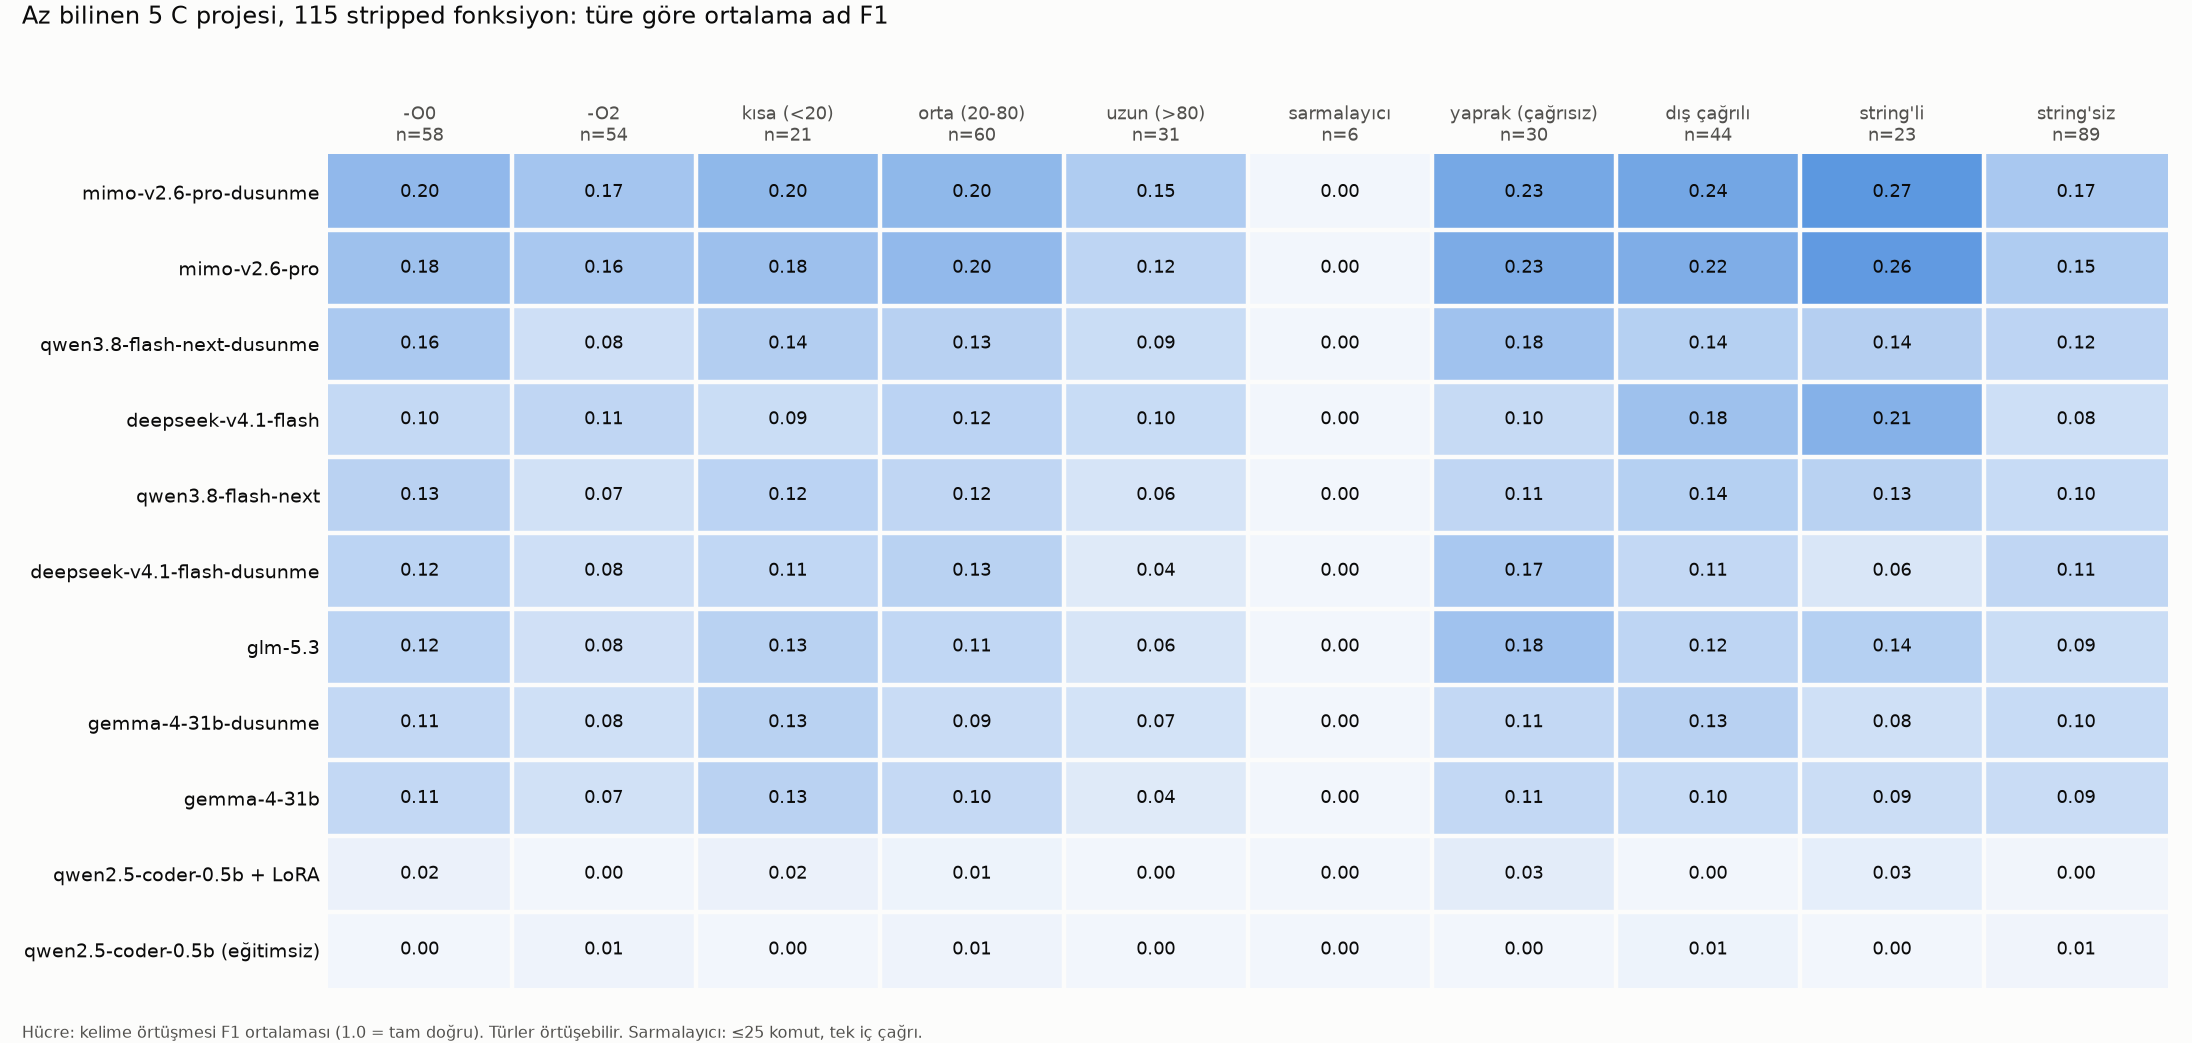
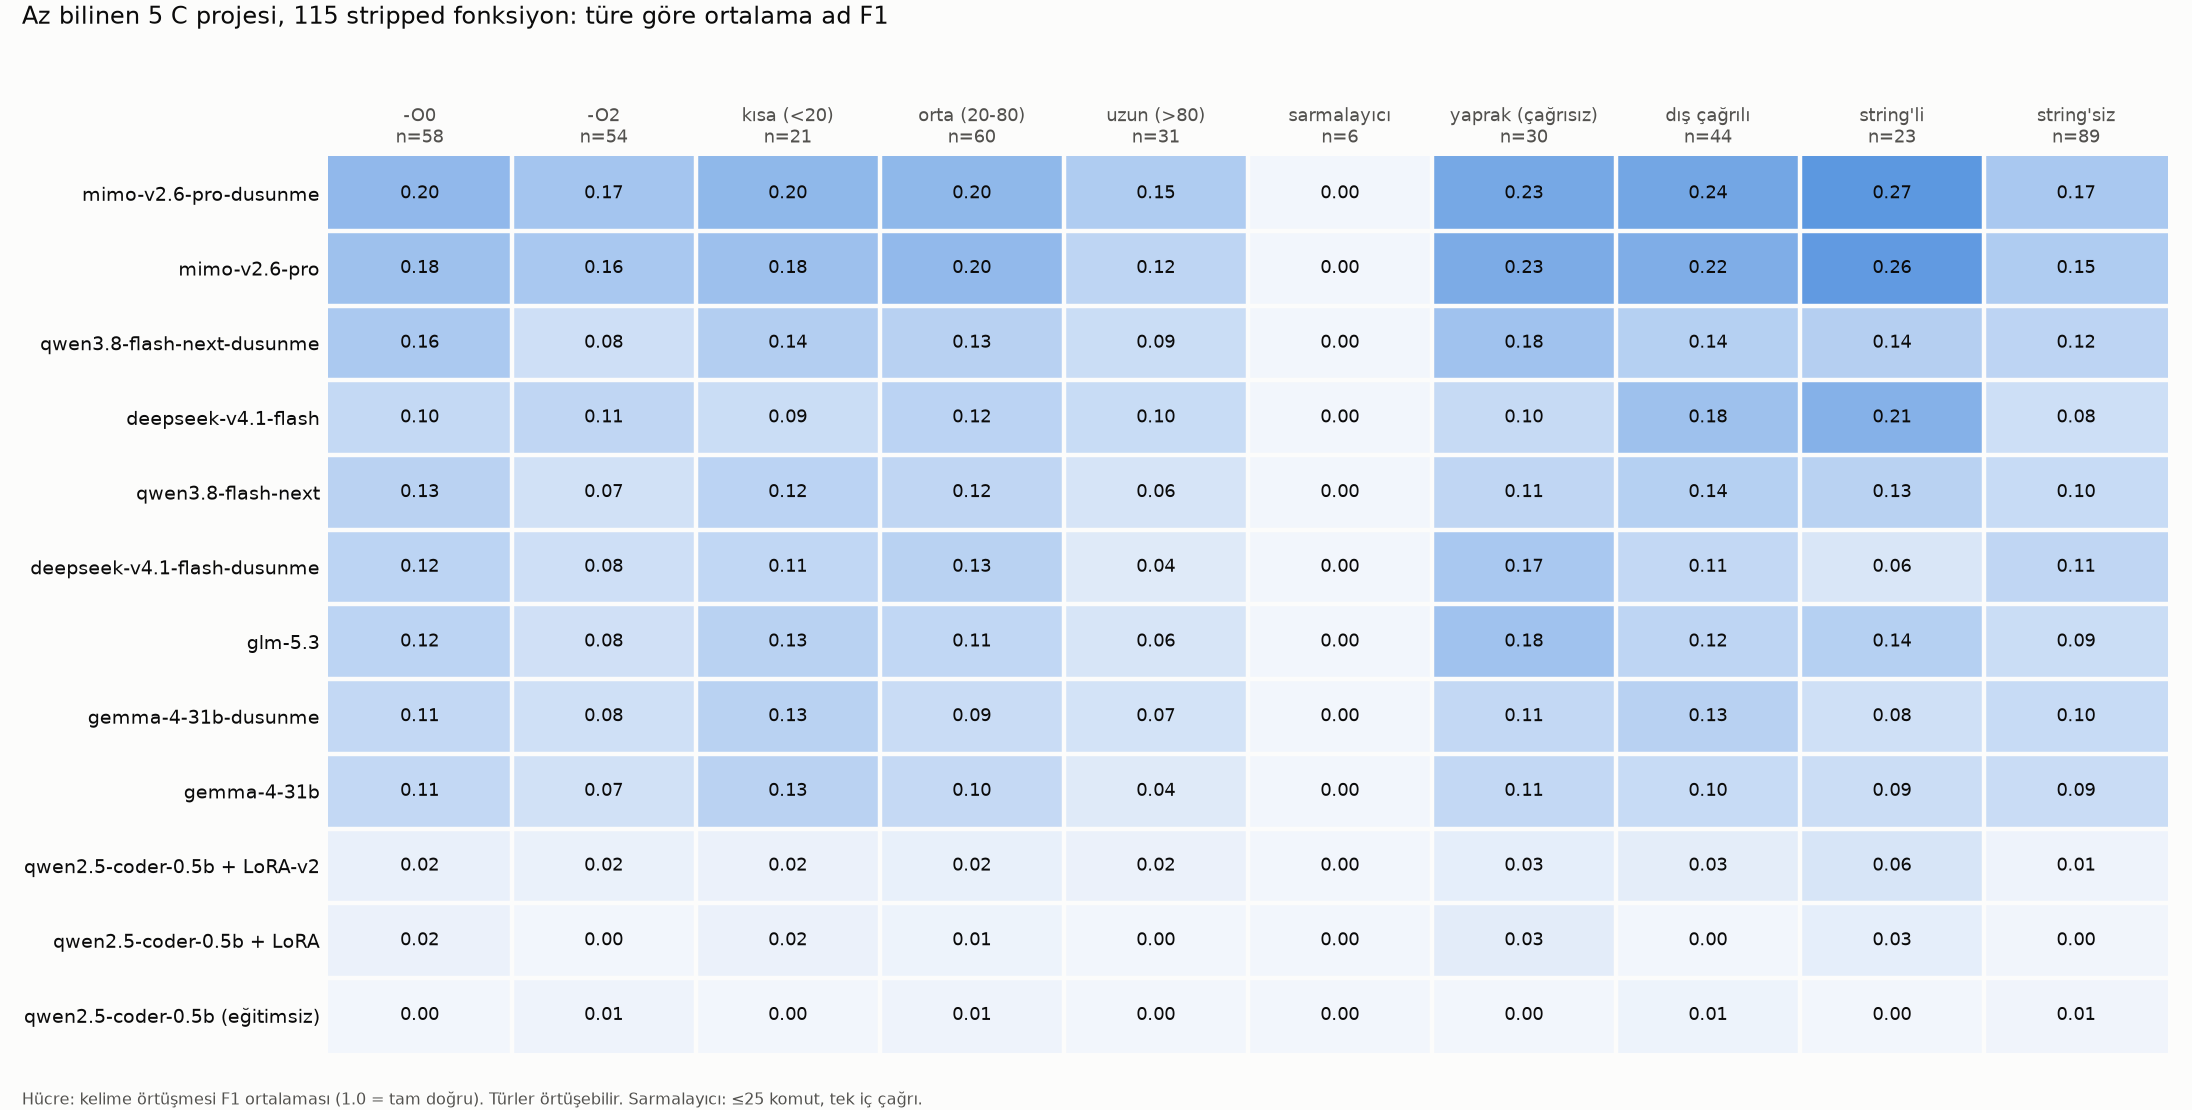
LoRA v2 sonucu (önek atılmış, dengeli): F1 0.02, mod çöküşü; README ve grafik güncel

diff --git a/README.md b/README.md
@@ -101,7 +101,15 @@ Düşünme, zlib'de tam isabeti üç katına çıkarıyor; az bilinen kodda hiç
 
 ### 4. Küçük model, ilk LoRA denemesi (MacBook Air M4)
 
-Qwen2.5-Coder-0.5B (4-bit), 14 eğitim projesinden 14.710 fonksiyon, 1.500 adım (~1 saat 40 dk, 4,8 GB bellek): **F1 0.01, yani işe yaramadı.** Model anlam yerine eğitim projelerinin ad öneklerini öğrendi: 112 tahminin 54'ü `mbedtls_` ile başlıyor. İkinci deneme (hedeflerden proje öneki atılmış, projeler dengelenmiş) sürüyor.
+Qwen2.5-Coder-0.5B (4-bit), 1.500 adım (~1 saat 40 dk, 4,8 GB bellek). İki deneme de **işe yaramadı**:
+
+| deneme | veri | F1 | tam isabet | ne oldu |
+|---|---|---|---|---|
+| eğitimsiz | — | 0.01 | 0 / 112 | çoğu cevap anlamsız |
+| LoRA v1 | 14.710 fonksiyon, gerçek adlar | 0.01 | 0 / 112 | proje öneklerini ezberledi: 112 tahminin 54'ü `mbedtls_…` |
+| LoRA v2 | 10.360 fonksiyon, önek atılmış, proje başına ≤1.500 | 0.02 | 0 / 112 | mod çöküşü: 112 tahminin 56'sı iki ad |
+
+0.5B model ve yarım epoch bu iş için yetersiz görünüyor. Sıradaki denemeler: daha büyük taban (1.5B-3B), daha uzun eğitim, girdiye çağrı bağlamı.
 
 ### Not: zlib ısınma turu ve veri hattındaki sızıntılar
 
